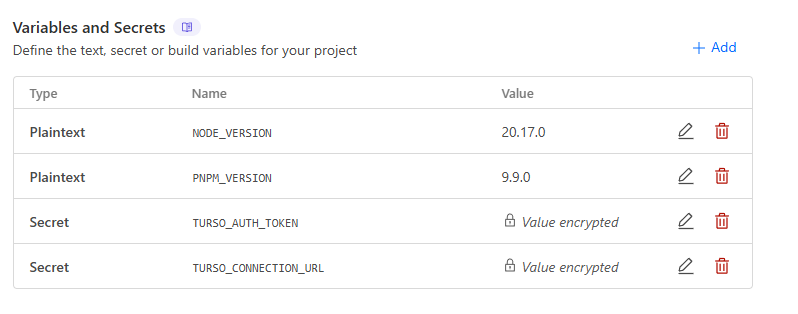
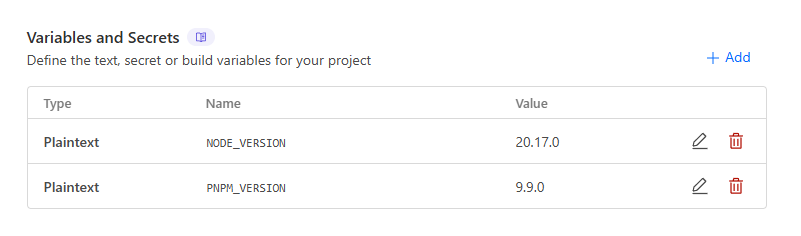
Update README

diff --git a/drizzle.config.ts b/drizzle.config.ts
@@ -13,7 +13,5 @@ export default defineConfig({
     accountId: process.env.CLOUDFLARE_ACCOUNT_ID!,
     databaseId: process.env.CLOUDFLARE_DATABASE_ID!,
     token: process.env.CLOUDFLARE_D1_TOKEN!,
-    // url: process.env.TURSO_CONNECTION_URL ?? "",
-    // authToken: process.env.TURSO_AUTH_TOKEN ?? "",
   },
 });

diff --git a/README.md b/README.md
@@ -4,22 +4,22 @@ A simple map visualization app built with Astro, Preact, and MapLibre GL JS. Upo
 
 ## Development
 
-1. Create a [Turso](https://turso.tech/) account and create a new database.
-2. Create a `.dev.vars` file based on `.dev.vars.example` and set the `TURSO_CONNECTION_URL` and `TURSO_AUTH_TOKEN` environment variables.
-3. Ensure you're on Node.js 20.17.0 and PNPM 9.9.0.
-4. Run `pnpm install` to install the dependencies.
-5. Run `pnpm db:generate` to generate the database migrations.
-6. Run `pnpm db:migrate` to apply the migrations.
-7. Run `pnpm dev:all` to start the development server and the database studio.
-8. To actually log the coordinates, you'll have to use [Cloudflare Tunnel](https://developers.cloudflare.com/cloudflare-one/connections/connect-networks/downloads/) to proxy the development server, else 0, 0 would be logged.
-9. Just install `cloudflared` and run `cloudflared tunnel --url http://localhost:4321` (or the port your dev server is running on) to get a URL to visit.
+1. Create a new Cloudflare D1 database.
+2. Update the variables in `wrangler.toml` to match your database under `[[d1_databases]]`.
+3. Create a `.dev.vars` and `.env` files based on `.dev.vars.example` and `.env.example` and set `CLOUDFLARE_ACCOUNT_ID`, `CLOUDFLARE_DATABASE_ID`, `CLOUDFLARE_D1_TOKEN` (you can refer [this](https://developers.cloudflare.com/fundamentals/api/get-started/create-token/) doc on how to create D1 specific token) and `CLOUDFLARE_D1_BINDING` environment variables.
+4. Ensure you're on Node.js 20.17.0 and pnpm 9.9.0.
+5. Run `pnpm install` to install the dependencies.
+6. Run `pnpm db:generate` to generate the database migrations.
+7. Run `pnpm db:migrate` to apply the migrations.
+8. Run `pnpm dev:all` to start the development server and the database studio.
+9. To actually log the coordinates, you'll have to use [Cloudflare Tunnel](https://developers.cloudflare.com/cloudflare-one/connections/connect-networks/downloads/) to proxy the development server, else 0, 0 would be logged.
+10. Just install `cloudflared` and run `cloudflared tunnel --url http://localhost:4321` (or the port your dev server is running on) to get a URL to visit.
 
 ## Deployment
 
-1. Set the `TURSO_CONNECTION_URL` and `TURSO_AUTH_TOKEN` environment variables in the Cloudflare dashboard.
-2. Also set the `NODE_VERSION` to `20.17.0` and `PNPM_VERSION` to `9.9.0`. It should look something like this:
-   ![Secrets](image.png)
-3. Enable build cache
+1. Set set the `NODE_VERSION` to `20.17.0` and `PNPM_VERSION` to `9.9.0`. It should look something like this:
+   ![Secrets](image-3.png)
+2. Enable build cache
    ![Build cache](image-1.png)
-4. Deploy to your branch, connect your domain and also enable location headers and you're good to go! 🎉
+3. Deploy to your branch, connect your domain and also enable location headers and you're good to go! 🎉
    ![Location headers](image-2.png)
